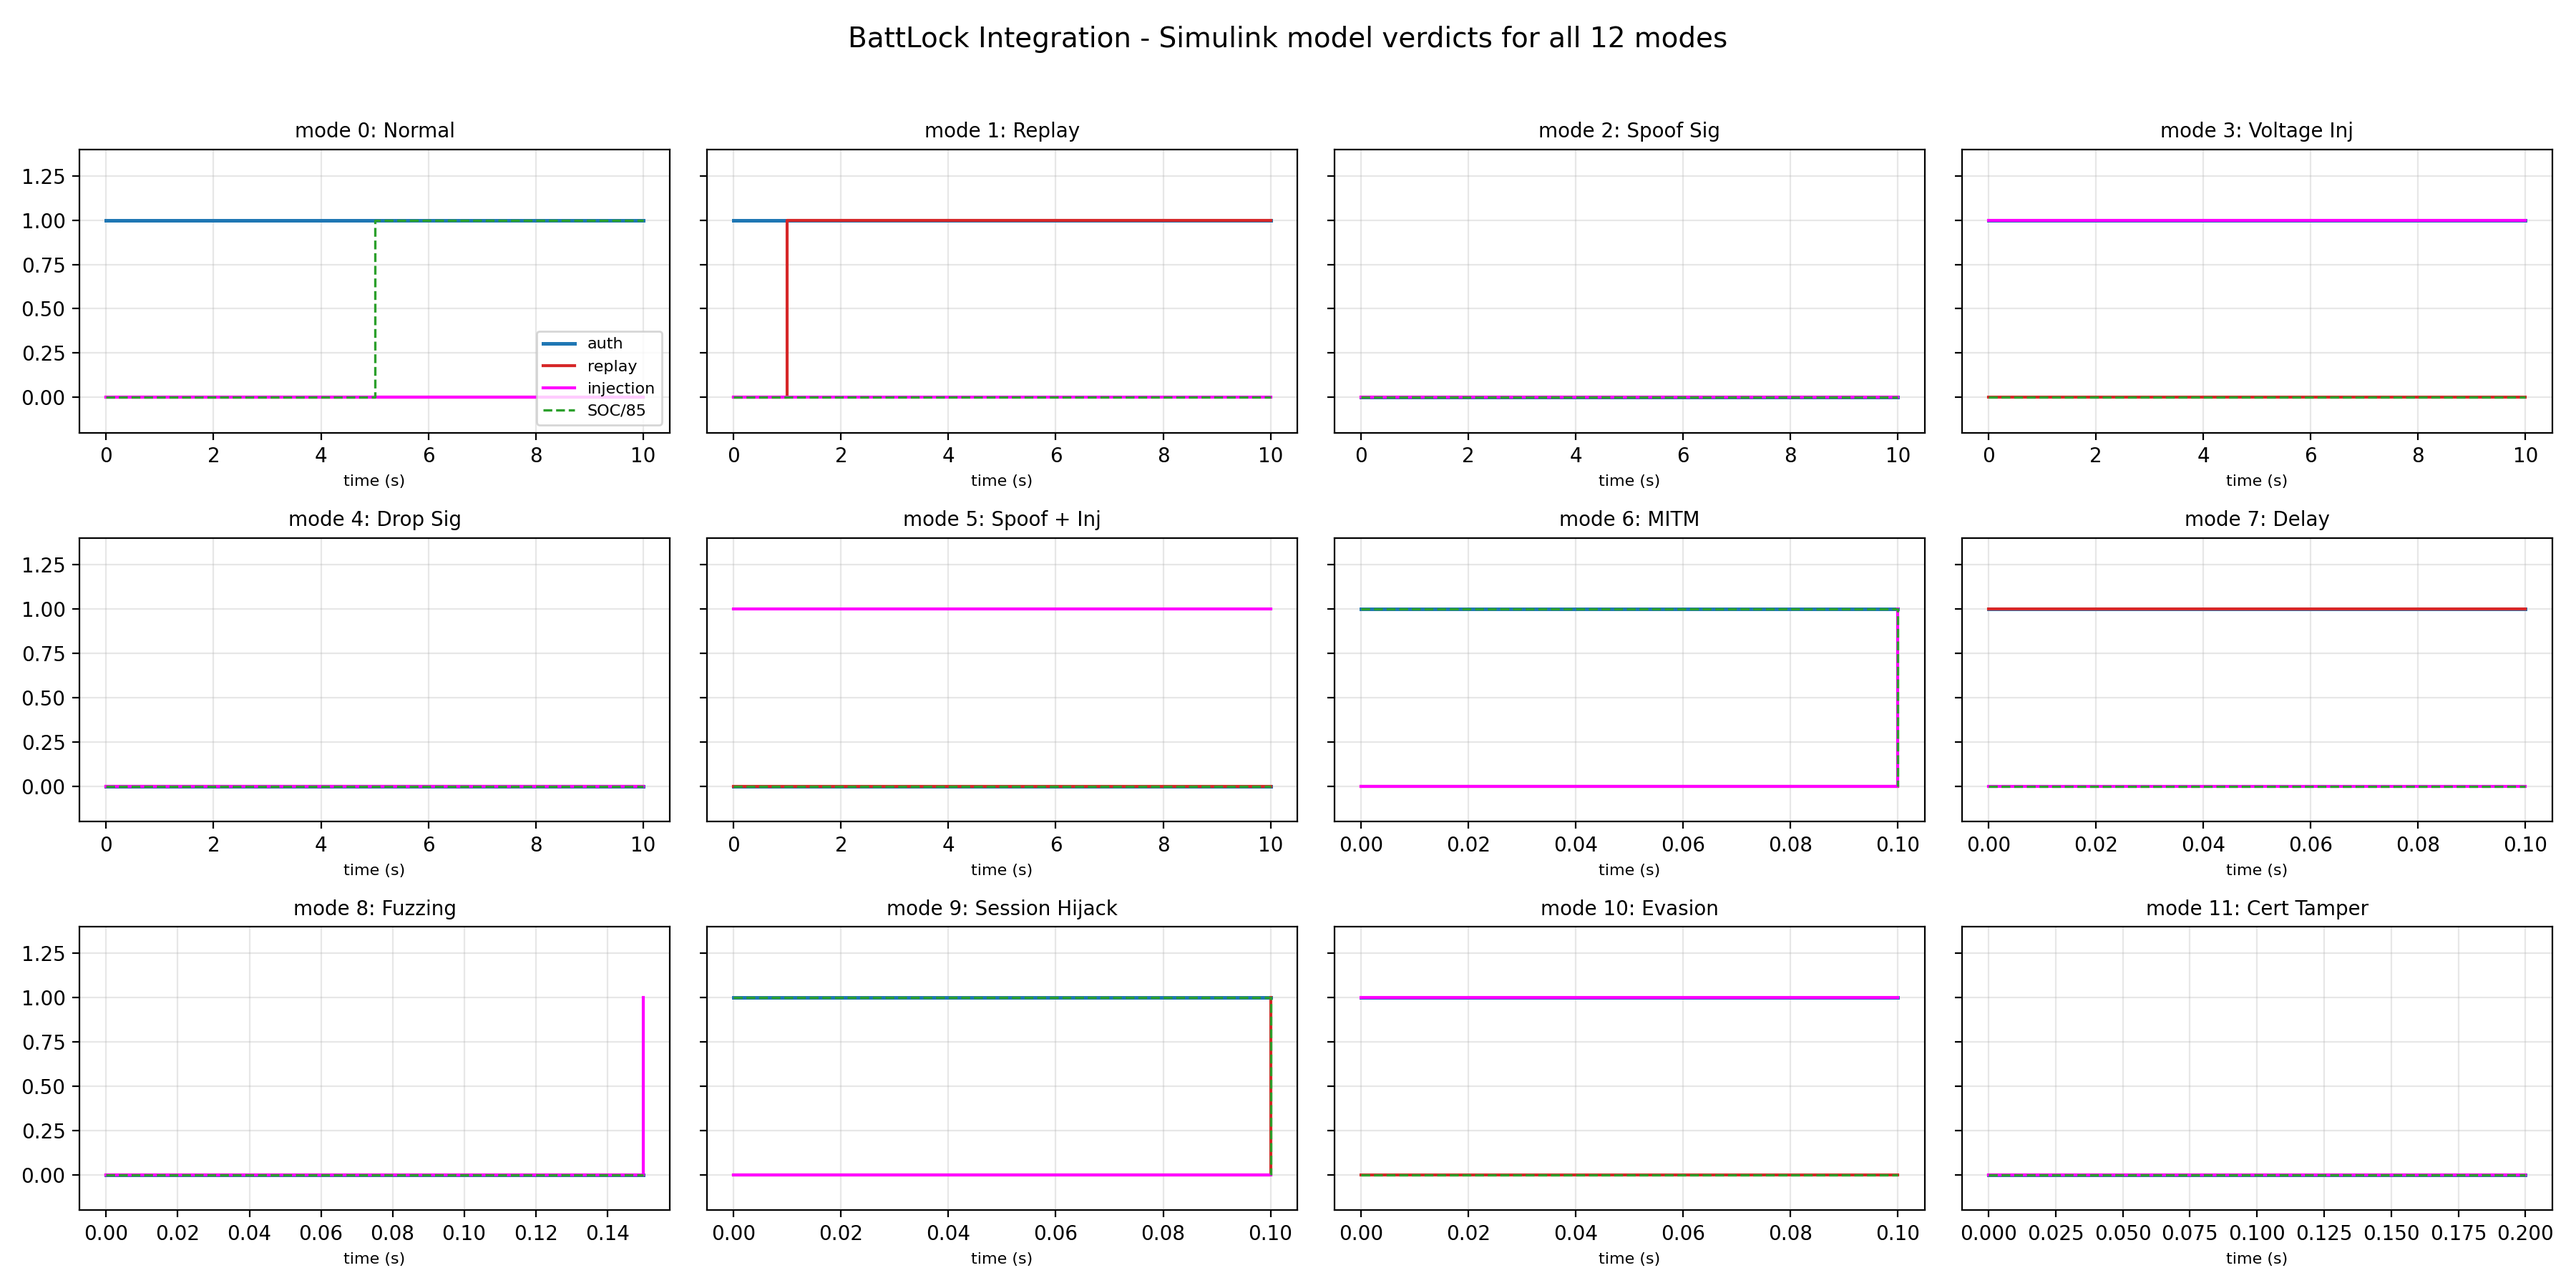
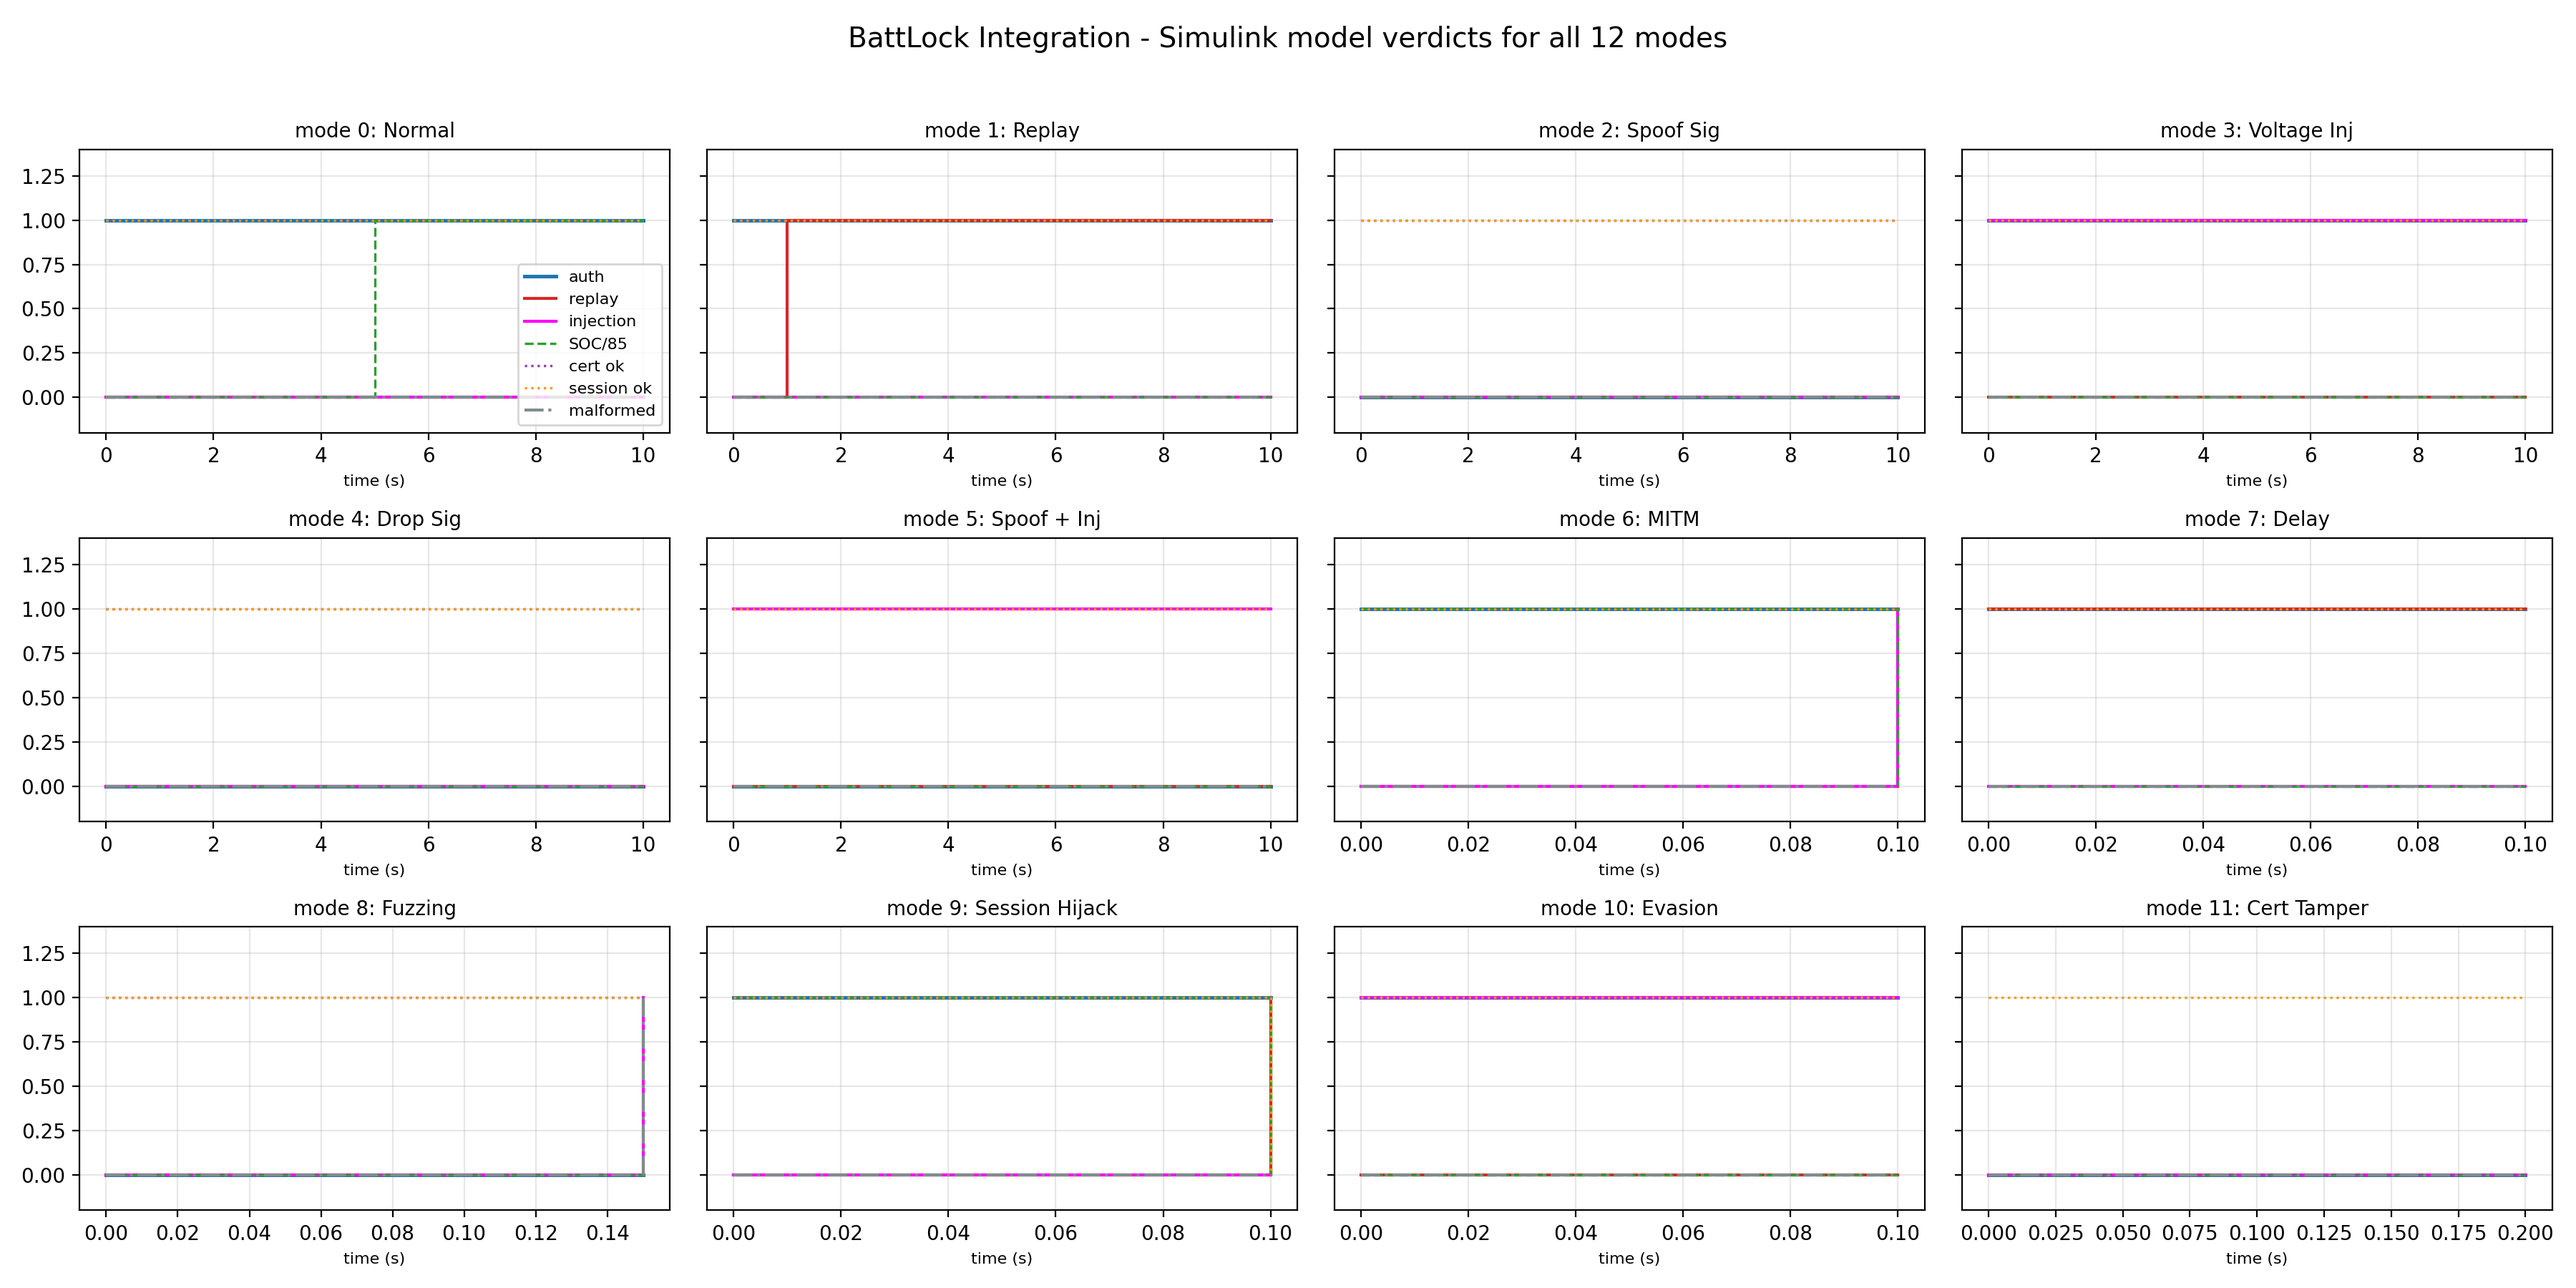
feat: distinguish all 12 attack modes in verification plots
- add py_cert_ok, py_session_ok, py_malformed verdict columns

- plot_all_modes.py: 3 new traces (purple/orange/gray) so each attack has a unique visual signature

Changed region(s): [[0.1867, 0.2178, 0.2489, 0.3422]]

diff --git a/simulink/verify_all_modes.py b/simulink/verify_all_modes.py
@@ -48,6 +48,17 @@ def _read_csv(path):
     return rows
 
 
+def _hint(row, key, default):
+    """Read an attack-type hint column from a row, tolerating missing keys."""
+    val = row.get(key)
+    if val is None or val == "":
+        return default
+    try:
+        return int(float(val))
+    except (TypeError, ValueError):
+        return default
+
+
 def verify_all(frames_csv, extra_csv, out_csv, report_csv):
     all_rows = _read_csv(frames_csv) + _read_csv(extra_csv)
 
@@ -72,6 +83,12 @@ def verify_all(frames_csv, extra_csv, out_csv, report_csv):
 
         py_auth = 1 if sig_ok else 0
 
+        # Attack-type hints (from Python-generated modes 6-11; defaults for
+        # Simulink modes 0-5 which don't carry them).
+        cert_ok = _hint(row, "cert_ok", 1)
+        session_ok = _hint(row, "session_ok", 1)
+        malformed = _hint(row, "malformed", 0)
+
         out_rows.append({
             "mode": mode,
             "time": float(row["time"]),
@@ -79,6 +96,9 @@ def verify_all(frames_csv, extra_csv, out_csv, report_csv):
             "py_replay": 0 if replay_ok else 1,
             "py_injection": 1 if injection else 0,
             "py_auth": py_auth,
+            "py_cert_ok": cert_ok,
+            "py_session_ok": session_ok,
+            "py_malformed": malformed,
             "model_auth": int(float(row["model_auth"])),
             "model_replay": int(float(row["model_replay"])),
             "model_injection": int(float(row["model_injection"])),
@@ -96,7 +116,8 @@ def verify_all(frames_csv, extra_csv, out_csv, report_csv):
         writer = csv.writer(f)
         writer.writerow([
             "mode", "description", "py_auth", "model_auth",
-            "py_replay", "model_replay", "py_injection", "model_injection", "agreement"
+            "py_replay", "model_replay", "py_injection", "model_injection",
+            "py_cert_ok", "py_session_ok", "py_malformed", "agreement"
         ])
         for mode in sorted(mode_results):
             group = [r for r in out_rows if r["mode"] == mode]
@@ -106,6 +127,9 @@ def verify_all(frames_csv, extra_csv, out_csv, report_csv):
             mdl_rep = max(r["model_replay"] for r in group)
             py_inj = max(r["py_injection"] for r in group)
             mdl_inj = max(r["model_injection"] for r in group)
+            py_cert = max(r["py_cert_ok"] for r in group)
+            py_sess = max(r["py_session_ok"] for r in group)
+            py_malf = max(r["py_malformed"] for r in group)
             agree = (
                 py_auth == mdl_auth
                 and py_rep == mdl_rep
@@ -113,7 +137,8 @@ def verify_all(frames_csv, extra_csv, out_csv, report_csv):
             )
             writer.writerow([
                 mode, DESCRIPTIONS[mode], py_auth, mdl_auth,
-                py_rep, mdl_rep, py_inj, mdl_inj, "YES" if agree else "NO"
+                py_rep, mdl_rep, py_inj, mdl_inj,
+                py_cert, py_sess, py_malf, "YES" if agree else "NO"
             ])
 
     print(f"Wrote {len(out_rows)} verified frames to {out_csv}")

diff --git a/simulink/generate_extra_modes.py b/simulink/generate_extra_modes.py
@@ -55,8 +55,13 @@ VOLTAGE_THRESHOLD = 100.0
 
 
 def _status_to_row(mode, time_, nonce, signature, status, model_state,
-                   model_auth, model_replay, model_injection, model_soc):
-    """Build a frames.csv-style row dict from a BatteryStatus."""
+                   model_auth, model_replay, model_injection, model_soc,
+                   cert_ok=1, session_ok=1, malformed=0):
+    """Build a frames.csv-style row dict from a BatteryStatus.
+
+    cert_ok / session_ok / malformed are attack-type hints the verifier
+    uses to emit the py_cert_ok / py_session_ok / py_malformed verdicts.
+    """
     return {
         "mode": mode,
         "time": round(time_, 6),
@@ -69,6 +74,9 @@ def _status_to_row(mode, time_, nonce, signature, status, model_state,
         "model_replay": model_replay,
         "model_injection": model_injection,
         "model_soc": model_soc,
+        "cert_ok": cert_ok,
+        "session_ok": session_ok,
+        "malformed": malformed,
     }
 
 
@@ -180,6 +188,9 @@ def mode_8_fuzzing():
         "model_replay": 0,
         "model_injection": 1,
         "model_soc": 0,
+        "cert_ok": 1,
+        "session_ok": 1,
+        "malformed": 1,
     })
     return rows
 
@@ -227,6 +238,7 @@ def mode_9_session_hijack():
         "nonce": 0, "signature": 0, "counter": 0, "voltage": 0.0,
         "model_state": 5, "model_auth": 1, "model_replay": 1,
         "model_injection": 0, "model_soc": 0,
+        "cert_ok": 1, "session_ok": 0, "malformed": 0,
     })
     return rows
 
@@ -276,6 +288,7 @@ def mode_11_certificate_tampering():
             "nonce": 0, "signature": 0, "counter": 0, "voltage": 0.0,
             "model_state": 2, "model_auth": 1 if ok else 0, "model_replay": 0,
             "model_injection": 0, "model_soc": 0,
+            "cert_ok": 1 if ok else 0, "session_ok": 1, "malformed": 0,
         })
         t += 0.1
     return rows
@@ -292,7 +305,8 @@ def generate_extra_modes(out_path):
 
     fieldnames = [
         "mode", "time", "nonce", "signature", "counter", "voltage",
-        "model_state", "model_auth", "model_replay", "model_injection", "model_soc"
+        "model_state", "model_auth", "model_replay", "model_injection", "model_soc",
+        "cert_ok", "session_ok", "malformed"
     ]
     with open(out_path, "w", newline="") as f:
         writer = csv.DictWriter(f, fieldnames=fieldnames)

diff --git a/simulink/plot_all_modes.py b/simulink/plot_all_modes.py
@@ -51,6 +51,9 @@ COLORS = {
     "replay": "#d62728",
     "injection": "#ff00ff",
     "soc": "#2ca02c",
+    "cert": "#8e44ad",      # purple — certificate verified
+    "session": "#f39c12",   # orange — session fresh
+    "malformed": "#7f8c8d", # gray — fuzz/malformed frame
 }
 
 
@@ -91,6 +94,16 @@ def _plot_one_mode(ax, g, keys):
     ax.step(t, [r["model_soc"] / 85.0 for r in g],
             where="post", color=COLORS["soc"], linewidth=1.2,
             linestyle="--", label="SOC/85")
+    # New distinguishing traces (Python verifier, available in all rows)
+    ax.step(t, [r.get("py_cert_ok", 1) for r in g],
+            where="post", color=COLORS["cert"], linewidth=1.2,
+            linestyle=":", label="cert ok")
+    ax.step(t, [r.get("py_session_ok", 1) for r in g],
+            where="post", color=COLORS["session"], linewidth=1.2,
+            linestyle=":", label="session ok")
+    ax.step(t, [r.get("py_malformed", 0) for r in g],
+            where="post", color=COLORS["malformed"], linewidth=1.5,
+            linestyle="-.", label="malformed")
 
 
 def plot_verdicts(rows, out_path, column_keys, title, legend_loc="lower right"):
